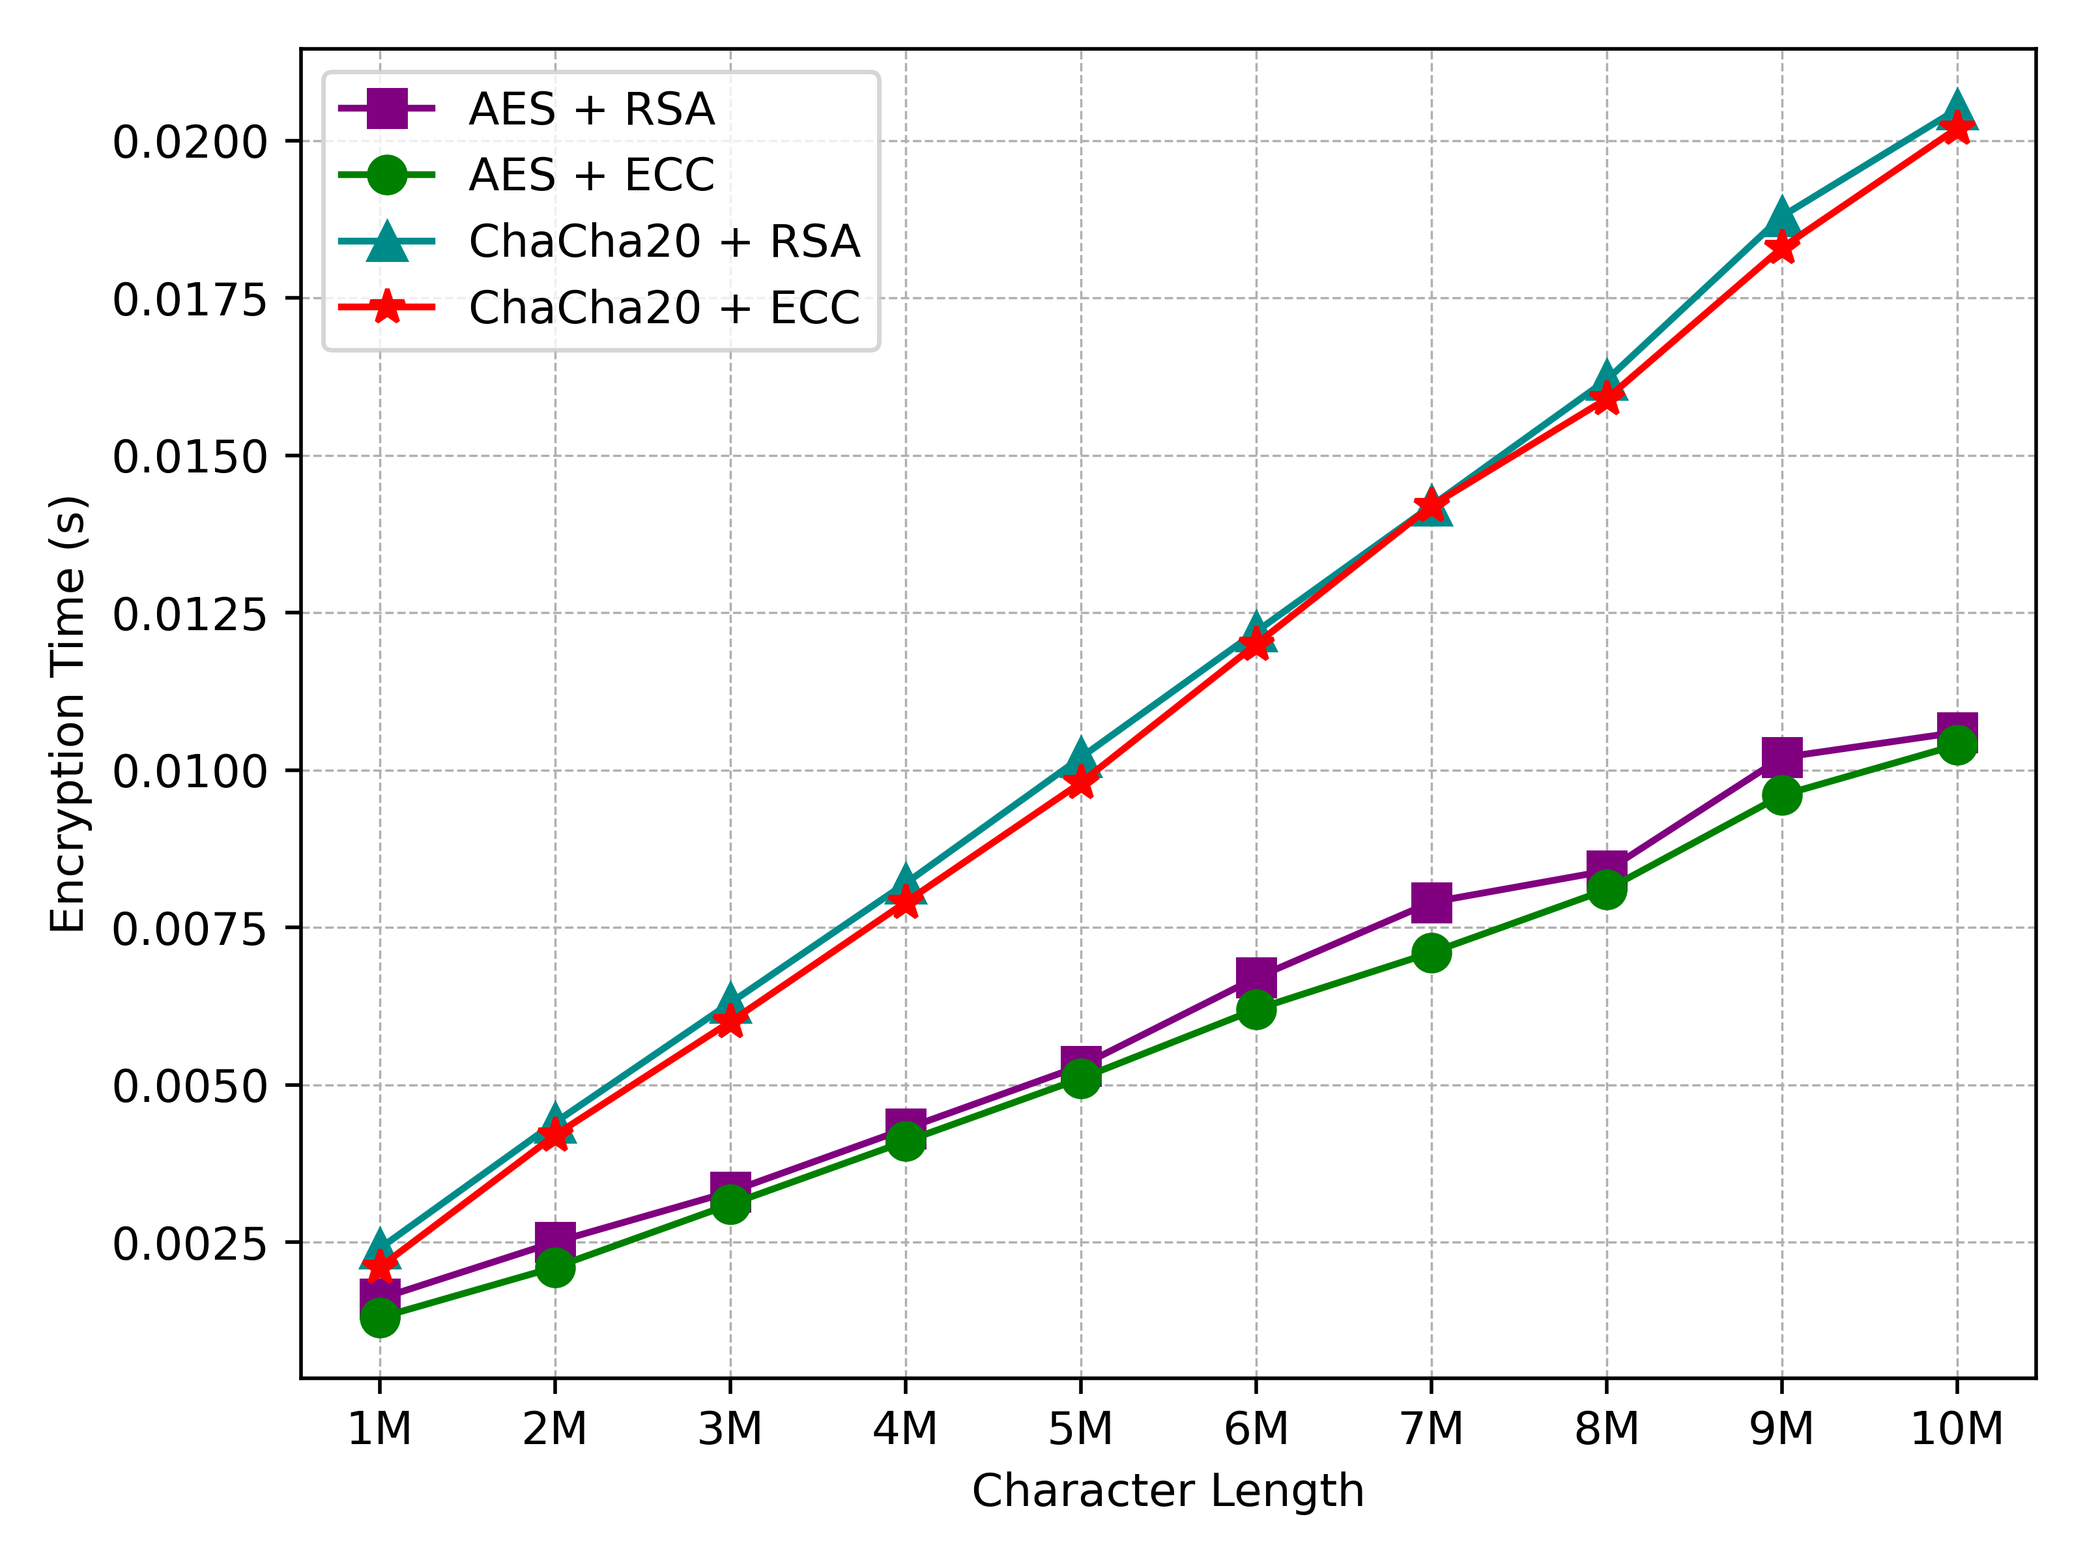
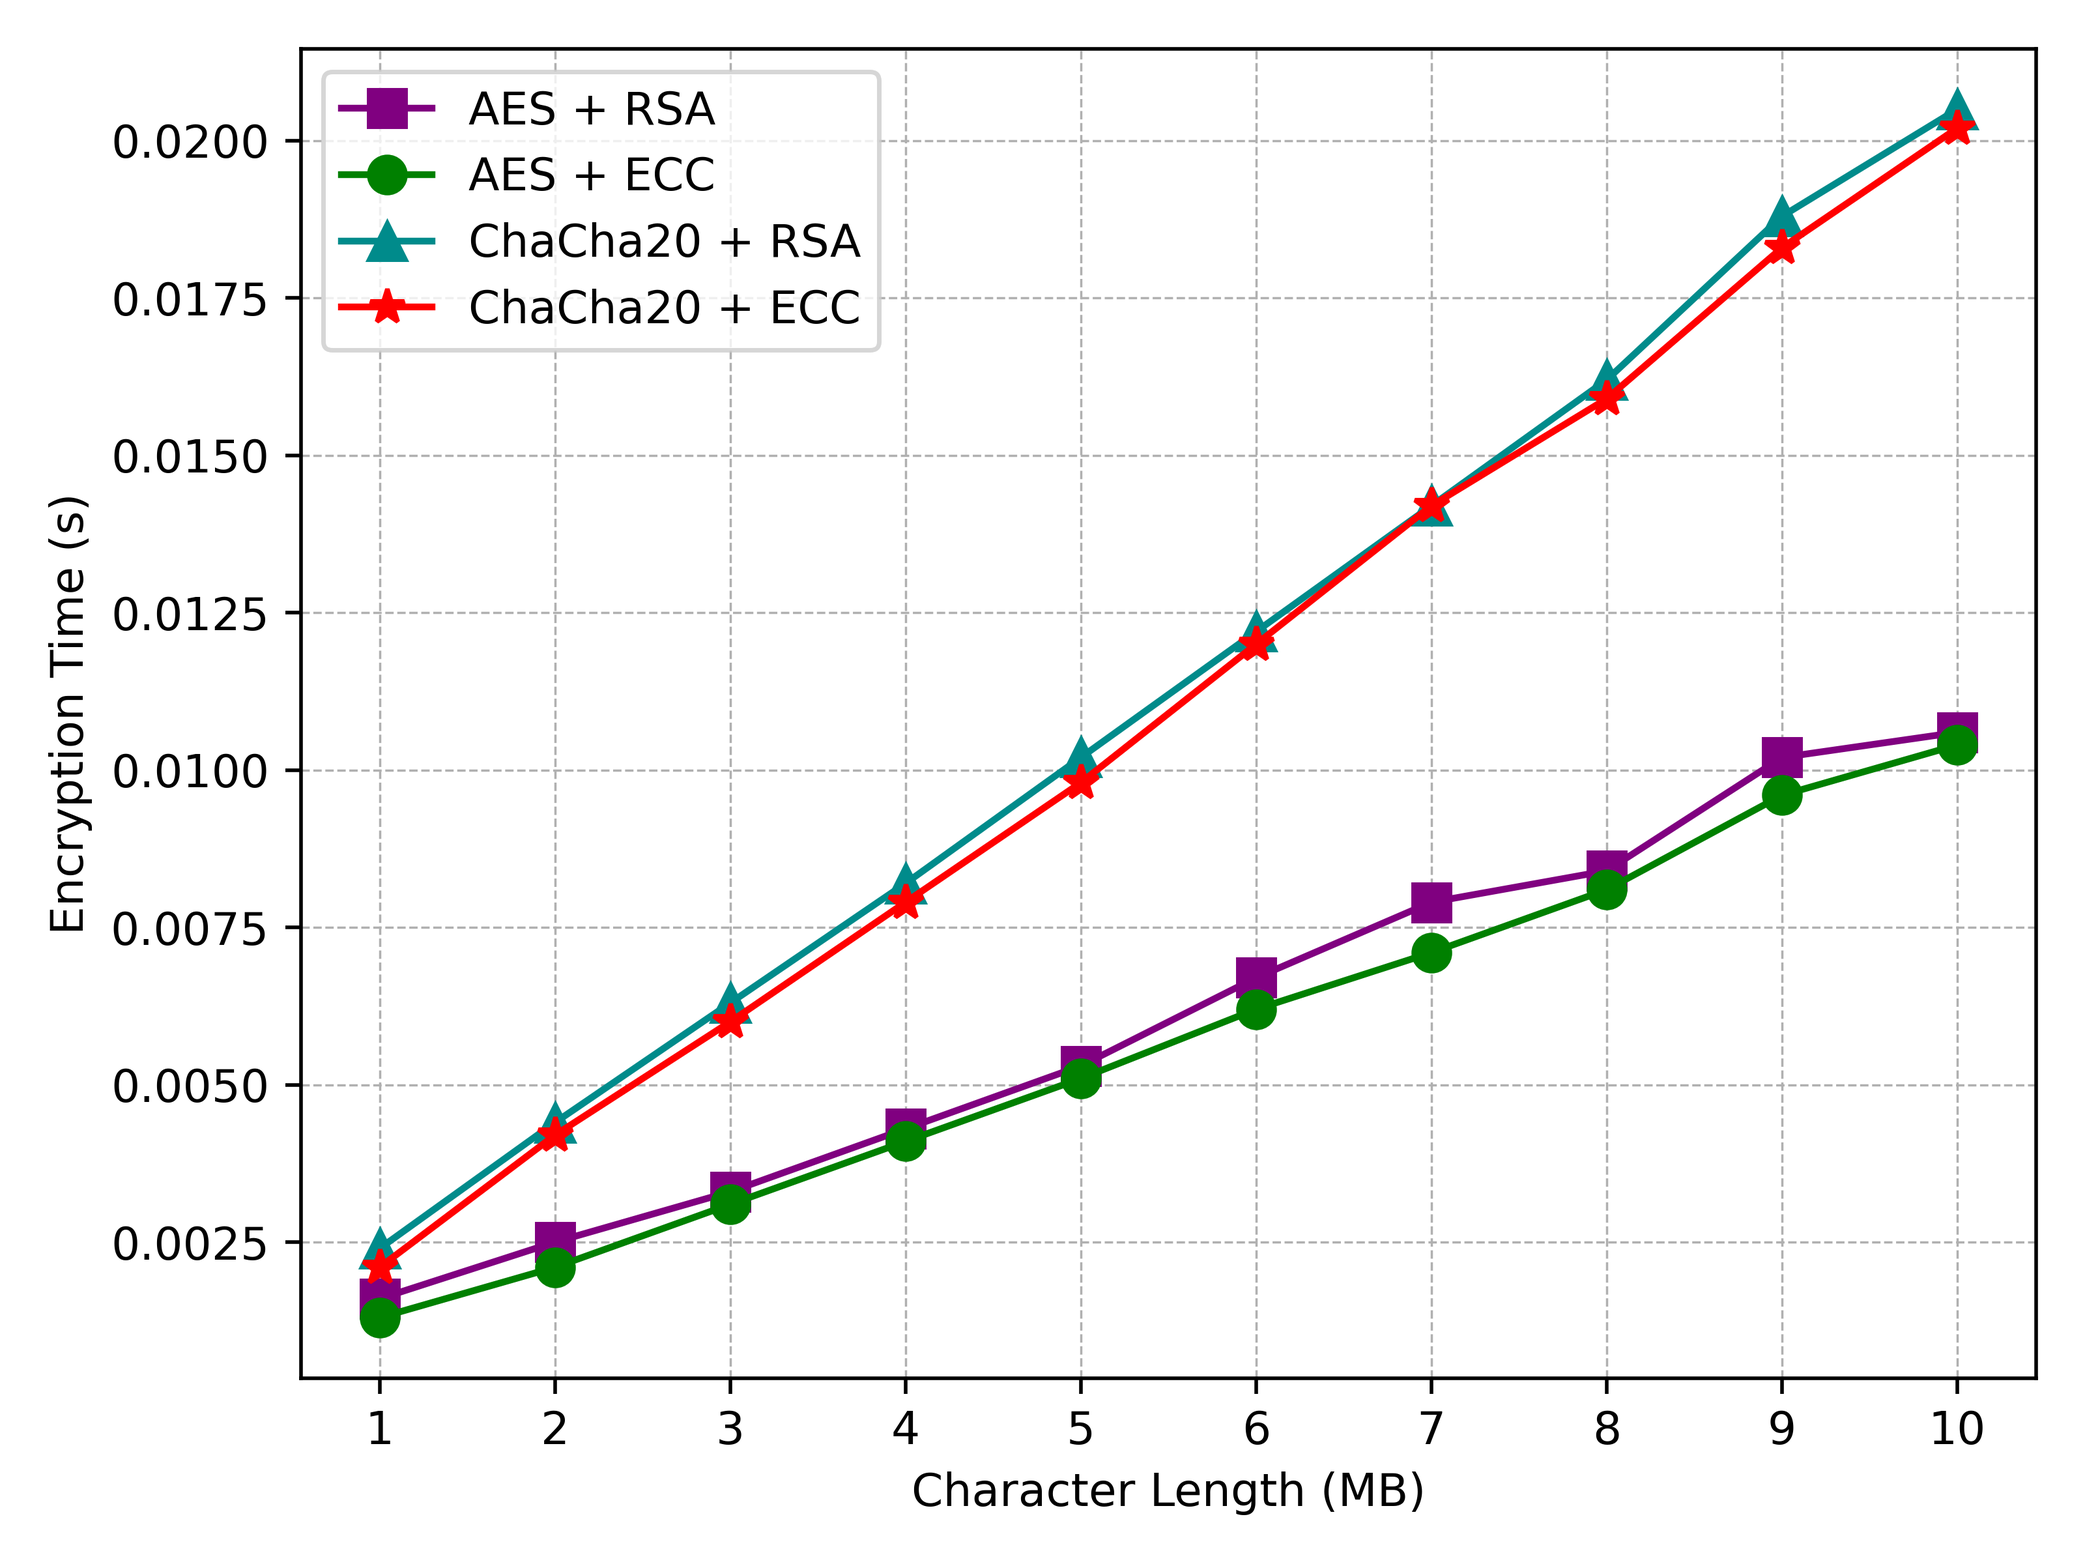
Added test for hybrid design

diff --git a/e2ee_sender.py b/e2ee_sender.py
@@ -1,0 +1,91 @@
+from Crypto.Cipher import AES, PKCS1_OAEP
+from Crypto.Util.Padding import pad
+from Crypto.PublicKey import RSA
+from Crypto.Random import get_random_bytes
+from Crypto.Signature import pss
+from Crypto.Hash import SHA256
+
+import socket
+import time 
+import sys
+import json
+
+sender_private_key = b'-----BEGIN RSA PRIVATE KEY-----\nMIIEowIBAAKCAQEAnjVoEHHoXYVkOB+PN2s5QBfvPCIlraKVXvB+DHvXKI/Wrt7x\nfhi1xmD6pJifVjczegm4Nq3UmDyaI/dVUOvmrJl2KF2G6xc6QIMCyCH4cLs/Trw3\ngS5vDwPQQj0eG9CpwRavMHrXuhUl2GASGh4aoWwxumCC0BIzt9XCpcoo9byD9ios\nECXxkSkwb22sqqkO1d6mL2PiZlK3fsH/3TxUhn7VOggT2ssBrXDjFBTvyllGcPIG\nH1Opt8Wd92APi/90D36XXyUpKdLOdlsRC8ZAgBaj/v/oefTAoMm5G1XUc0Za8vzW\nQRSn7msb9QrCUyWfDgnUzPIYUV7naQ6n43PzBwIDAQABAoIBAAaOxyf7WLrbpxpO\ncJTG/IIEG/X9olsupIthY5An5/S19ZudARyNcKdu6KS+8MfVlOwnj/uwO+ItjOQV\nwfMPPCoGWGf27Hs9JLx80bYy9kXR9R9R3OkdYBwat9yvBNr5TLgEtTFIvj1n2AA+\nhzGO8uKjBfKoQnPWdU9W7HELzqPU4mAxSeFhOFcal/p+DPHdLoeV14X93+q7jIzm\naKIHVO4ybstTlGuMALVXXVpL+HFywuTmPJOoM3GBlJ+E3/Vc69c4LwOnkkg6oP0n\nFhXXfZVSgfhpfhgvBJJ0CHA1xpDDOCKHiNGXt4bfraWLKq0uKXZiznYfBD7Q8X1S\nVHieRikCgYEAwvNt7uHacws5SNgWAAUQpmBRsERf2KwNcPfylUyOKv5q3kkU5Eh7\nC8lMsP7cfVxR6vOEX6hNXRaSx9uRqgNGTRvILmKKNDLEUyZTB9SyHMuuEU9H1gVl\nwArv33PyER3Nxvdu3NmwfHBiXLlchFRNCD5wk5tuiCXOwRswKB3HehkCgYEAz8B4\nSS4w8fuBoypmSZAMwYlyeB/wxlYxLQou4I7kotyHaHmDlW6OUpb//VdMcz0NZ01C\nicd6fIfYlyXLtoKP2zfAMF1JTgol+UiUVdaSJNps4WIp9Y3yBfWumtIbXJAPjvbr\nwZo61bnzZmRcwHvSczsxs1LUVqcvzwOUKgUGuh8CgYEAg8EJVx0FCiNXv8dqdvD1\nY7xM+Rf8vu7o1qR8KjLnEl+H0lsJ546kuj59ulFEquSt6GBT4mJYhsUuxiu6snAs\nHwjbrZ2jUcvNq3SHQQ+aoKN3LPOr1RUowzWhEB/IRZEi9YlcP55QDInXsFsGD9j5\nhszMQLYXaaRDq3a4gSQ/IGECgYA/kV/83GJjmJZpK68SsT4F9h2NfhB5T6RKaMRB\nN9fjsWDJae0GS0bHJKb9iLm+xR6VzkEe0We8NQDj9s+nb7m+1Qc8hT7J3zcRWNDy\nlu4u0prgN94o4Z79jdg4TTPMFdR85TbsDVoVTYmZefobd4fEdIdXnG+WeB+b0zeB\nx/nv9wKBgCRw5lDHI1zKQp97r7Q/6Vuuo2fgAzoZUjXNPtKhv44cvniHCzMgK41S\nTOPjB+Yi/zsbKUh89erJX8OqE3usP+ynNeXVl2X/fm2QY1WNO+kUkwl+EcdOFoYq\nYBs6LWhWyAtVB5k/yRBnmnNHMyYAs5AZE9rBCOdY4J68JFl2cpaI\n-----END RSA PRIVATE KEY-----'
+sender_public_key = b'-----BEGIN PUBLIC KEY-----\nMIIBIjANBgkqhkiG9w0BAQEFAAOCAQ8AMIIBCgKCAQEAnjVoEHHoXYVkOB+PN2s5\nQBfvPCIlraKVXvB+DHvXKI/Wrt7xfhi1xmD6pJifVjczegm4Nq3UmDyaI/dVUOvm\nrJl2KF2G6xc6QIMCyCH4cLs/Trw3gS5vDwPQQj0eG9CpwRavMHrXuhUl2GASGh4a\noWwxumCC0BIzt9XCpcoo9byD9iosECXxkSkwb22sqqkO1d6mL2PiZlK3fsH/3TxU\nhn7VOggT2ssBrXDjFBTvyllGcPIGH1Opt8Wd92APi/90D36XXyUpKdLOdlsRC8ZA\ngBaj/v/oefTAoMm5G1XUc0Za8vzWQRSn7msb9QrCUyWfDgnUzPIYUV7naQ6n43Pz\nBwIDAQAB\n-----END PUBLIC KEY-----'
+receiver_private_key = b'-----BEGIN RSA PRIVATE KEY-----\nMIIEowIBAAKCAQEAmfHnUlJ2D/aatwQ1QVopLyDMOuHI84YfUpZSW4+G+r/R/IUR\n9AAELe9KmgjFnVRbU3hn7hw8oCwFHiQ5jo4aeD6caOJMmJjzQbsDy5JmYXVusEvO\niuS///tdTT+usWsWa189s1h8HvEyUTDXaaYQrwwKS40GJAJxkQ2nrOplpLqe3C4X\ndIPx8lVsRFzqi0+oIL3wDqd7HJuTV/uwGjrs5iMEKQQ1z1Q3oHh+w8WGdzB2uHJI\n843J8pwEy6lgyHSVFFgEAjhUmjo1pZua3MsmuC2wis3BVdiOTO4fcFvUvqk+XEMe\nOBfYK36xTxvlT/zgoIwjShUEmQxj6CEU5339FwIDAQABAoIBABMZ4c2OxRlmoXxz\nPYxgpzAyze8XFCZV46MNWyYDNrNRg7jlEKeJglCUxVk8HLulu43YKG/HTyUXRoHz\n6rRWdiWqAcw9xVVAfRu7HFXGUi+7hhgX1TEvVZIUhVd6vwPtOU3p9lo/cL8sxu/Y\nszxnn4r+CnT6CDiwQ5kaQaOB6J9ksGtUPr2sBdliiRw7KH/RdvYgBwfqBoc+vU8c\n6H3pdnVDKhaJQHrU3foMxl/gsDAHrcg08OVHZNlP3ImFsjmeSRCUAhZiK7XUU2JF\nPHfLFjWSG8P9XNqCpGvx0UfC/J6DpNxiuE23aNbvGItV0y+vwO2BZ1FhcwSDmZgY\nRSmzs9ECgYEAuIUe7XZqnGZoQEc/m2wNM4OeV/bcGIvmpPCUfdXL4mUxboy1EqJ1\nXNm0gtc82NHbFCb0/G6BsY134dkJ3pXm1wsRtu5ivjfMsWZM8lb92LmGfSh+W1pc\nX3zqDC7WBYLKi1k94x+AfMiNceo4RzEBBr7ey0Q277PElm4Qh/M+4hkCgYEA1ZSl\n+G6nb/fQLAReK5G/8ExEkeSSW4E68U4NqfTeuh4/27g5DBChgKLPg5nJf1WazEcL\nJyeBaeZ/rhXiyxQdmnn85Vp4s9dMPnmntS1s6DmDovlASsEqQjqYcTCpNvC5lLGf\nHQxywe7e665FsC+eXLOWdktVlbBnKmkO58pmnq8CgYEAhQv/s+t5jdJNg2OcWp37\nmtRhnT2zj8N4iB+sglthSpn6naK5gXlAtLWJcfputkwC8rHwXf/0ZikCcwfDFQrz\nSsWBfWzAKDYl0xhXjTnqiZWkgqRrD8XE61kvjZ9L1Ods0jOD6zuwsskNLEFdWP/d\npJaGIPzLu+TccDdmlhBvnCkCgYBxgV83CS+IzM1gJy4Yv4ue3Blw42V4pdQ6W33d\nfdpEVUEgtuXyaIA8Ccp4qOkx97+don/l3hPjwPDIBq+Rt24II55oEU2mXdwSM7sS\nCUMgozg3C3nEgKXBrrxHI1I6dXJa+I6T9IKkWBs2a1ZzzMq/f12OHnksZSReoJig\nTKt+1wKBgHGmrbFfZYVERmDuTZ5qMP9rfOXkhifuZlMmBCvwe4KmQbNGvhX5gJDc\nijPHtya/Y2wxjl7JvRGqIL3rcRS7OrrfI9b+/ZiVmI6LBNZbwhDUIqB/Ugcfo9Sn\nJpGm/03HBZTRRUU38VU5VGLY3XrrDsBZWICsbz1YTQP3XzJWUQMs\n-----END RSA PRIVATE KEY-----'
+receiver_public_key = :b'-----BEGIN PUBLIC KEY-----\nMIIBIjANBgkqhkiG9w0BAQEFAAOCAQ8AMIIBCgKCAQEAmfHnUlJ2D/aatwQ1QVop\nLyDMOuHI84YfUpZSW4+G+r/R/IUR9AAELe9KmgjFnVRbU3hn7hw8oCwFHiQ5jo4a\neD6caOJMmJjzQbsDy5JmYXVusEvOiuS///tdTT+usWsWa189s1h8HvEyUTDXaaYQ\nrwwKS40GJAJxkQ2nrOplpLqe3C4XdIPx8lVsRFzqi0+oIL3wDqd7HJuTV/uwGjrs\n5iMEKQQ1z1Q3oHh+w8WGdzB2uHJI843J8pwEy6lgyHSVFFgEAjhUmjo1pZua3Msm\nuC2wis3BVdiOTO4fcFvUvqk+XEMeOBfYK36xTxvlT/zgoIwjShUEmQxj6CEU5339\nFwIDAQAB\n-----END PUBLIC KEY-----'
+
+
+def sender_encrypt_and_sign(data, receiver_public_key_pem, sender_private_key_pem):
+
+    # --- Load keys ---
+    receiver_key = RSA.import_key(receiver_public_key_pem)
+    sender_key = RSA.import_key(sender_private_key_pem)
+
+    # --- 1. Generate AES session key ---
+    aes_key = get_random_bytes(32)  # AES-256
+
+    # --- 2. Encrypt data with AES ---
+    cipher_aes = AES.new(aes_key, AES.MODE_CBC)
+    ciphertext = cipher_aes.encrypt(pad(data, AES.block_size))
+
+    # --- 3. Encrypt AES key with RSA ---
+    rsa_cipher = PKCS1_OAEP.new(receiver_key)
+    encrypted_aes_key = rsa_cipher.encrypt(aes_key)
+
+    # --- 4. Sign transmitted data (AES key + ciphertext + IV) ---
+    payload = encrypted_aes_key + cipher_aes.iv + ciphertext
+    hash_obj = SHA256.new(payload)
+
+    signature = pss.new(sender_key).sign(hash_obj)
+
+    return encrypted_aes_key, cipher_aes.iv, ciphertext, signature
+
+averages = []
+for i in range(3):
+    reset = 1
+    start = 0
+    total = 0
+    counter = 0
+    while counter < 10:
+        if reset == 1:
+            start = time.time()
+            reset = 0
+        try:
+            s = socket.socket(socket.AF_INET, socket.SOCK_STREAM)
+            s.connect(("192.168.137.1", 5000))
+            data = "Hello"
+            enc_aes_key, iv, enc_data, signature = sender_encrypt_and_sign(data, receiver_public_key, sender_private_key)
+
+            message = json.dumps({
+                "secret-key": enc_aes_key,
+                "data": enc_data,
+                "iv": iv,
+                "signature": signature
+            })
+            s.sendall(bytes(message, "utf-8"))
+            message = s.recv(4096).decode("utf-8")
+                
+            if message != "":
+                #print(message)
+                message = json.loads(message)
+                print(message["response"]) 
+                end = time.time()
+                elapsed = end-start
+                if elapsed > 0:
+                    total += elapsed
+                    counter += 1
+                    print(elapsed)
+                    print(total)
+                    print(counter)
+                    print(total/counter)
+                    if counter == 10:
+                        averages.append(total/counter)
+                reset = 1
+            else:
+                reset = 0
+            s.close()
+        except Exception as msg:
+            print(msg)
+            reset = 0
+print(averages)

diff --git a/e2ee_reciever.py b/e2ee_reciever.py
@@ -1,0 +1,58 @@
+from Crypto.Cipher import AES, PKCS1_OAEP
+from Crypto.Util.Padding import unpad
+from Crypto.PublicKey import RSA
+from Crypto.Signature import pss
+from Crypto.Hash import SHA256
+
+import socket
+import time
+import sys
+import json
+
+sender_private_key = b'-----BEGIN RSA PRIVATE KEY-----\nMIIEowIBAAKCAQEAnjVoEHHoXYVkOB+PN2s5QBfvPCIlraKVXvB+DHvXKI/Wrt7x\nfhi1xmD6pJifVjczegm4Nq3UmDyaI/dVUOvmrJl2KF2G6xc6QIMCyCH4cLs/Trw3\ngS5vDwPQQj0eG9CpwRavMHrXuhUl2GASGh4aoWwxumCC0BIzt9XCpcoo9byD9ios\nECXxkSkwb22sqqkO1d6mL2PiZlK3fsH/3TxUhn7VOggT2ssBrXDjFBTvyllGcPIG\nH1Opt8Wd92APi/90D36XXyUpKdLOdlsRC8ZAgBaj/v/oefTAoMm5G1XUc0Za8vzW\nQRSn7msb9QrCUyWfDgnUzPIYUV7naQ6n43PzBwIDAQABAoIBAAaOxyf7WLrbpxpO\ncJTG/IIEG/X9olsupIthY5An5/S19ZudARyNcKdu6KS+8MfVlOwnj/uwO+ItjOQV\nwfMPPCoGWGf27Hs9JLx80bYy9kXR9R9R3OkdYBwat9yvBNr5TLgEtTFIvj1n2AA+\nhzGO8uKjBfKoQnPWdU9W7HELzqPU4mAxSeFhOFcal/p+DPHdLoeV14X93+q7jIzm\naKIHVO4ybstTlGuMALVXXVpL+HFywuTmPJOoM3GBlJ+E3/Vc69c4LwOnkkg6oP0n\nFhXXfZVSgfhpfhgvBJJ0CHA1xpDDOCKHiNGXt4bfraWLKq0uKXZiznYfBD7Q8X1S\nVHieRikCgYEAwvNt7uHacws5SNgWAAUQpmBRsERf2KwNcPfylUyOKv5q3kkU5Eh7\nC8lMsP7cfVxR6vOEX6hNXRaSx9uRqgNGTRvILmKKNDLEUyZTB9SyHMuuEU9H1gVl\nwArv33PyER3Nxvdu3NmwfHBiXLlchFRNCD5wk5tuiCXOwRswKB3HehkCgYEAz8B4\nSS4w8fuBoypmSZAMwYlyeB/wxlYxLQou4I7kotyHaHmDlW6OUpb//VdMcz0NZ01C\nicd6fIfYlyXLtoKP2zfAMF1JTgol+UiUVdaSJNps4WIp9Y3yBfWumtIbXJAPjvbr\nwZo61bnzZmRcwHvSczsxs1LUVqcvzwOUKgUGuh8CgYEAg8EJVx0FCiNXv8dqdvD1\nY7xM+Rf8vu7o1qR8KjLnEl+H0lsJ546kuj59ulFEquSt6GBT4mJYhsUuxiu6snAs\nHwjbrZ2jUcvNq3SHQQ+aoKN3LPOr1RUowzWhEB/IRZEi9YlcP55QDInXsFsGD9j5\nhszMQLYXaaRDq3a4gSQ/IGECgYA/kV/83GJjmJZpK68SsT4F9h2NfhB5T6RKaMRB\nN9fjsWDJae0GS0bHJKb9iLm+xR6VzkEe0We8NQDj9s+nb7m+1Qc8hT7J3zcRWNDy\nlu4u0prgN94o4Z79jdg4TTPMFdR85TbsDVoVTYmZefobd4fEdIdXnG+WeB+b0zeB\nx/nv9wKBgCRw5lDHI1zKQp97r7Q/6Vuuo2fgAzoZUjXNPtKhv44cvniHCzMgK41S\nTOPjB+Yi/zsbKUh89erJX8OqE3usP+ynNeXVl2X/fm2QY1WNO+kUkwl+EcdOFoYq\nYBs6LWhWyAtVB5k/yRBnmnNHMyYAs5AZE9rBCOdY4J68JFl2cpaI\n-----END RSA PRIVATE KEY-----'
+sender_public_key = b'-----BEGIN PUBLIC KEY-----\nMIIBIjANBgkqhkiG9w0BAQEFAAOCAQ8AMIIBCgKCAQEAnjVoEHHoXYVkOB+PN2s5\nQBfvPCIlraKVXvB+DHvXKI/Wrt7xfhi1xmD6pJifVjczegm4Nq3UmDyaI/dVUOvm\nrJl2KF2G6xc6QIMCyCH4cLs/Trw3gS5vDwPQQj0eG9CpwRavMHrXuhUl2GASGh4a\noWwxumCC0BIzt9XCpcoo9byD9iosECXxkSkwb22sqqkO1d6mL2PiZlK3fsH/3TxU\nhn7VOggT2ssBrXDjFBTvyllGcPIGH1Opt8Wd92APi/90D36XXyUpKdLOdlsRC8ZA\ngBaj/v/oefTAoMm5G1XUc0Za8vzWQRSn7msb9QrCUyWfDgnUzPIYUV7naQ6n43Pz\nBwIDAQAB\n-----END PUBLIC KEY-----'
+receiver_private_key = b'-----BEGIN RSA PRIVATE KEY-----\nMIIEowIBAAKCAQEAmfHnUlJ2D/aatwQ1QVopLyDMOuHI84YfUpZSW4+G+r/R/IUR\n9AAELe9KmgjFnVRbU3hn7hw8oCwFHiQ5jo4aeD6caOJMmJjzQbsDy5JmYXVusEvO\niuS///tdTT+usWsWa189s1h8HvEyUTDXaaYQrwwKS40GJAJxkQ2nrOplpLqe3C4X\ndIPx8lVsRFzqi0+oIL3wDqd7HJuTV/uwGjrs5iMEKQQ1z1Q3oHh+w8WGdzB2uHJI\n843J8pwEy6lgyHSVFFgEAjhUmjo1pZua3MsmuC2wis3BVdiOTO4fcFvUvqk+XEMe\nOBfYK36xTxvlT/zgoIwjShUEmQxj6CEU5339FwIDAQABAoIBABMZ4c2OxRlmoXxz\nPYxgpzAyze8XFCZV46MNWyYDNrNRg7jlEKeJglCUxVk8HLulu43YKG/HTyUXRoHz\n6rRWdiWqAcw9xVVAfRu7HFXGUi+7hhgX1TEvVZIUhVd6vwPtOU3p9lo/cL8sxu/Y\nszxnn4r+CnT6CDiwQ5kaQaOB6J9ksGtUPr2sBdliiRw7KH/RdvYgBwfqBoc+vU8c\n6H3pdnVDKhaJQHrU3foMxl/gsDAHrcg08OVHZNlP3ImFsjmeSRCUAhZiK7XUU2JF\nPHfLFjWSG8P9XNqCpGvx0UfC/J6DpNxiuE23aNbvGItV0y+vwO2BZ1FhcwSDmZgY\nRSmzs9ECgYEAuIUe7XZqnGZoQEc/m2wNM4OeV/bcGIvmpPCUfdXL4mUxboy1EqJ1\nXNm0gtc82NHbFCb0/G6BsY134dkJ3pXm1wsRtu5ivjfMsWZM8lb92LmGfSh+W1pc\nX3zqDC7WBYLKi1k94x+AfMiNceo4RzEBBr7ey0Q277PElm4Qh/M+4hkCgYEA1ZSl\n+G6nb/fQLAReK5G/8ExEkeSSW4E68U4NqfTeuh4/27g5DBChgKLPg5nJf1WazEcL\nJyeBaeZ/rhXiyxQdmnn85Vp4s9dMPnmntS1s6DmDovlASsEqQjqYcTCpNvC5lLGf\nHQxywe7e665FsC+eXLOWdktVlbBnKmkO58pmnq8CgYEAhQv/s+t5jdJNg2OcWp37\nmtRhnT2zj8N4iB+sglthSpn6naK5gXlAtLWJcfputkwC8rHwXf/0ZikCcwfDFQrz\nSsWBfWzAKDYl0xhXjTnqiZWkgqRrD8XE61kvjZ9L1Ods0jOD6zuwsskNLEFdWP/d\npJaGIPzLu+TccDdmlhBvnCkCgYBxgV83CS+IzM1gJy4Yv4ue3Blw42V4pdQ6W33d\nfdpEVUEgtuXyaIA8Ccp4qOkx97+don/l3hPjwPDIBq+Rt24II55oEU2mXdwSM7sS\nCUMgozg3C3nEgKXBrrxHI1I6dXJa+I6T9IKkWBs2a1ZzzMq/f12OHnksZSReoJig\nTKt+1wKBgHGmrbFfZYVERmDuTZ5qMP9rfOXkhifuZlMmBCvwe4KmQbNGvhX5gJDc\nijPHtya/Y2wxjl7JvRGqIL3rcRS7OrrfI9b+/ZiVmI6LBNZbwhDUIqB/Ugcfo9Sn\nJpGm/03HBZTRRUU38VU5VGLY3XrrDsBZWICsbz1YTQP3XzJWUQMs\n-----END RSA PRIVATE KEY-----'
+receiver_public_key = :b'-----BEGIN PUBLIC KEY-----\nMIIBIjANBgkqhkiG9w0BAQEFAAOCAQ8AMIIBCgKCAQEAmfHnUlJ2D/aatwQ1QVop\nLyDMOuHI84YfUpZSW4+G+r/R/IUR9AAELe9KmgjFnVRbU3hn7hw8oCwFHiQ5jo4a\neD6caOJMmJjzQbsDy5JmYXVusEvOiuS///tdTT+usWsWa189s1h8HvEyUTDXaaYQ\nrwwKS40GJAJxkQ2nrOplpLqe3C4XdIPx8lVsRFzqi0+oIL3wDqd7HJuTV/uwGjrs\n5iMEKQQ1z1Q3oHh+w8WGdzB2uHJI843J8pwEy6lgyHSVFFgEAjhUmjo1pZua3Msm\nuC2wis3BVdiOTO4fcFvUvqk+XEMeOBfYK36xTxvlT/zgoIwjShUEmQxj6CEU5339\nFwIDAQAB\n-----END PUBLIC KEY-----'
+
+def receiver_verify_and_decrypt(encrypted_aes_key, iv, ciphertext, signature, sender_public_key_pem, receiver_private_key_pem):
+
+    # --- Load keys ---
+    sender_key = RSA.import_key(sender_public_key_pem)
+    receiver_key = RSA.import_key(receiver_private_key_pem)
+
+    # --- Rebuild payload for verification ---
+    payload = encrypted_aes_key + iv + ciphertext
+    hash_obj = SHA256.new(payload)
+
+    # --- 1. Verify signature ---
+    pss.new(sender_key).verify(hash_obj, signature)
+
+    # --- 2. Decrypt AES key ---
+    rsa_cipher = PKCS1_OAEP.new(receiver_key)
+    aes_key = rsa_cipher.decrypt(encrypted_aes_key)
+
+    # --- 3. Decrypt data ---
+    cipher_aes = AES.new(aes_key, AES.MODE_CBC, iv)
+    plaintext = unpad(cipher_aes.decrypt(ciphertext), AES.block_size)
+
+    return plaintext
+
+counter = 0
+while True:
+    s = socket.socket(socket.AF_INET, socket.SOCK_STREAM)
+    s.bind(("", 5000))
+    s.listen(5)
+    print('Server is now running.')
+    connection, address = s.accept()
+    print(address)
+
+    message = json.loads(message.decode("utf-8"))
+
+    plaintext = receiver_verify_and_decrypt(message["secret-key"], message["iv"], message["data"], message["signature"], sender_public_key, receiver_private_key)
+    response = json.dumps({"response": plaintext})
+    connection.sendall(bytes(str(response), "utf-8"))
+    connection.shutdown(socket.SHUT_RDWR)
+    connection.close()
+        
+    print(counter)
+    connection.close()

diff --git a/plot_speed.py b/plot_speed.py
@@ -1,6 +1,6 @@
 from matplotlib import pyplot as plt
 
-dataX = ["1M","2M","3M","4M","5M","6M","7M","8M","9M","10M"]
+dataX = ["1","2","3","4","5","6","7","8","9","10"]
 
 aes_rsa = [0.0016, 0.0025, 0.0033, 0.0043, 0.0053, 0.0067, 0.0079, 0.0084, 0.0102, 0.0106]
 aes_ecc = [0.0013, 0.0021, 0.0031, 0.0041, 0.0051, 0.0062, 0.0071, 0.0081, 0.0096, 0.0104]
@@ -13,7 +13,7 @@ def plot_data(dataX, aes_rsa, aes_ecc, cha_rsa, cha_ecc, name):
     plt.plot(dataX,aes_ecc,marker='o', ms=8,label="AES + ECC", color="green")
     plt.plot(dataX,cha_rsa,marker='^', ms=8, label="ChaCha20 + RSA", color="darkcyan")
     plt.plot(dataX,cha_ecc,marker='*', ms=8,label="ChaCha20 + ECC", color="red")
-    plt.xlabel("Character Length")
+    plt.xlabel("Character Length (MB)")
     plt.ylabel("Encryption Time (s)")
     plt.legend()
     plt.grid(linestyle = '--', linewidth = 0.5)

diff --git a/generate_keys.py b/generate_keys.py
@@ -1,0 +1,15 @@
+from Crypto.PublicKey import RSA
+
+# --- Sender key pair (for signatures) ---
+sender_key = RSA.generate(2048)
+sender_private_key = sender_key.export_key()
+sender_public_key = sender_key.publickey().export_key()
+print("sender private key:" + str(sender_private_key))
+print("sender public key:" + str(sender_public_key))
+
+# --- Receiver key pair (for encryption) ---
+receiver_key = RSA.generate(2048)
+receiver_private_key = receiver_key.export_key()
+receiver_public_key = receiver_key.publickey().export_key()
+print("receiver private key:" + str(receiver_private_key))
+print("receiver public key:" + str(receiver_public_key))
